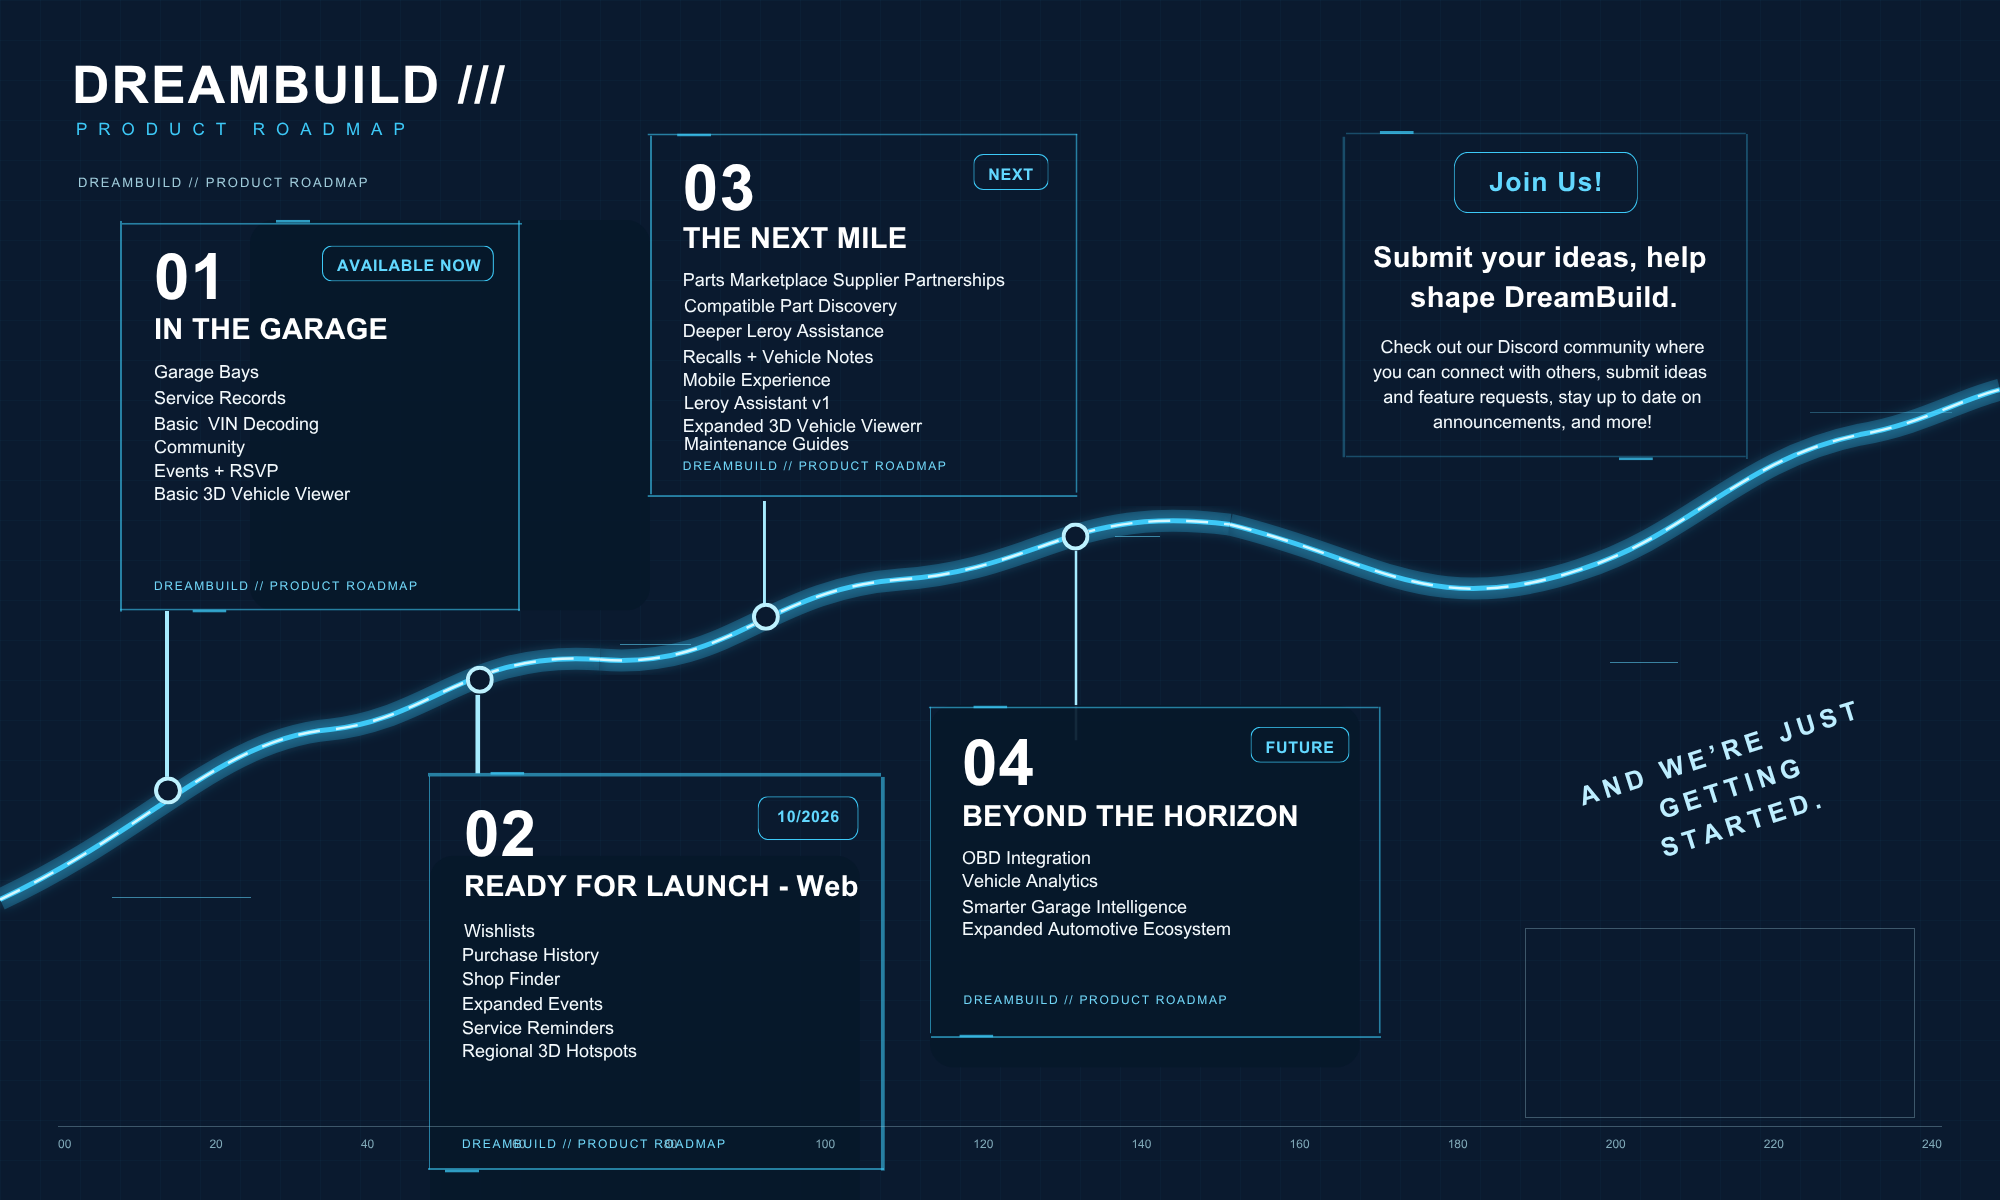
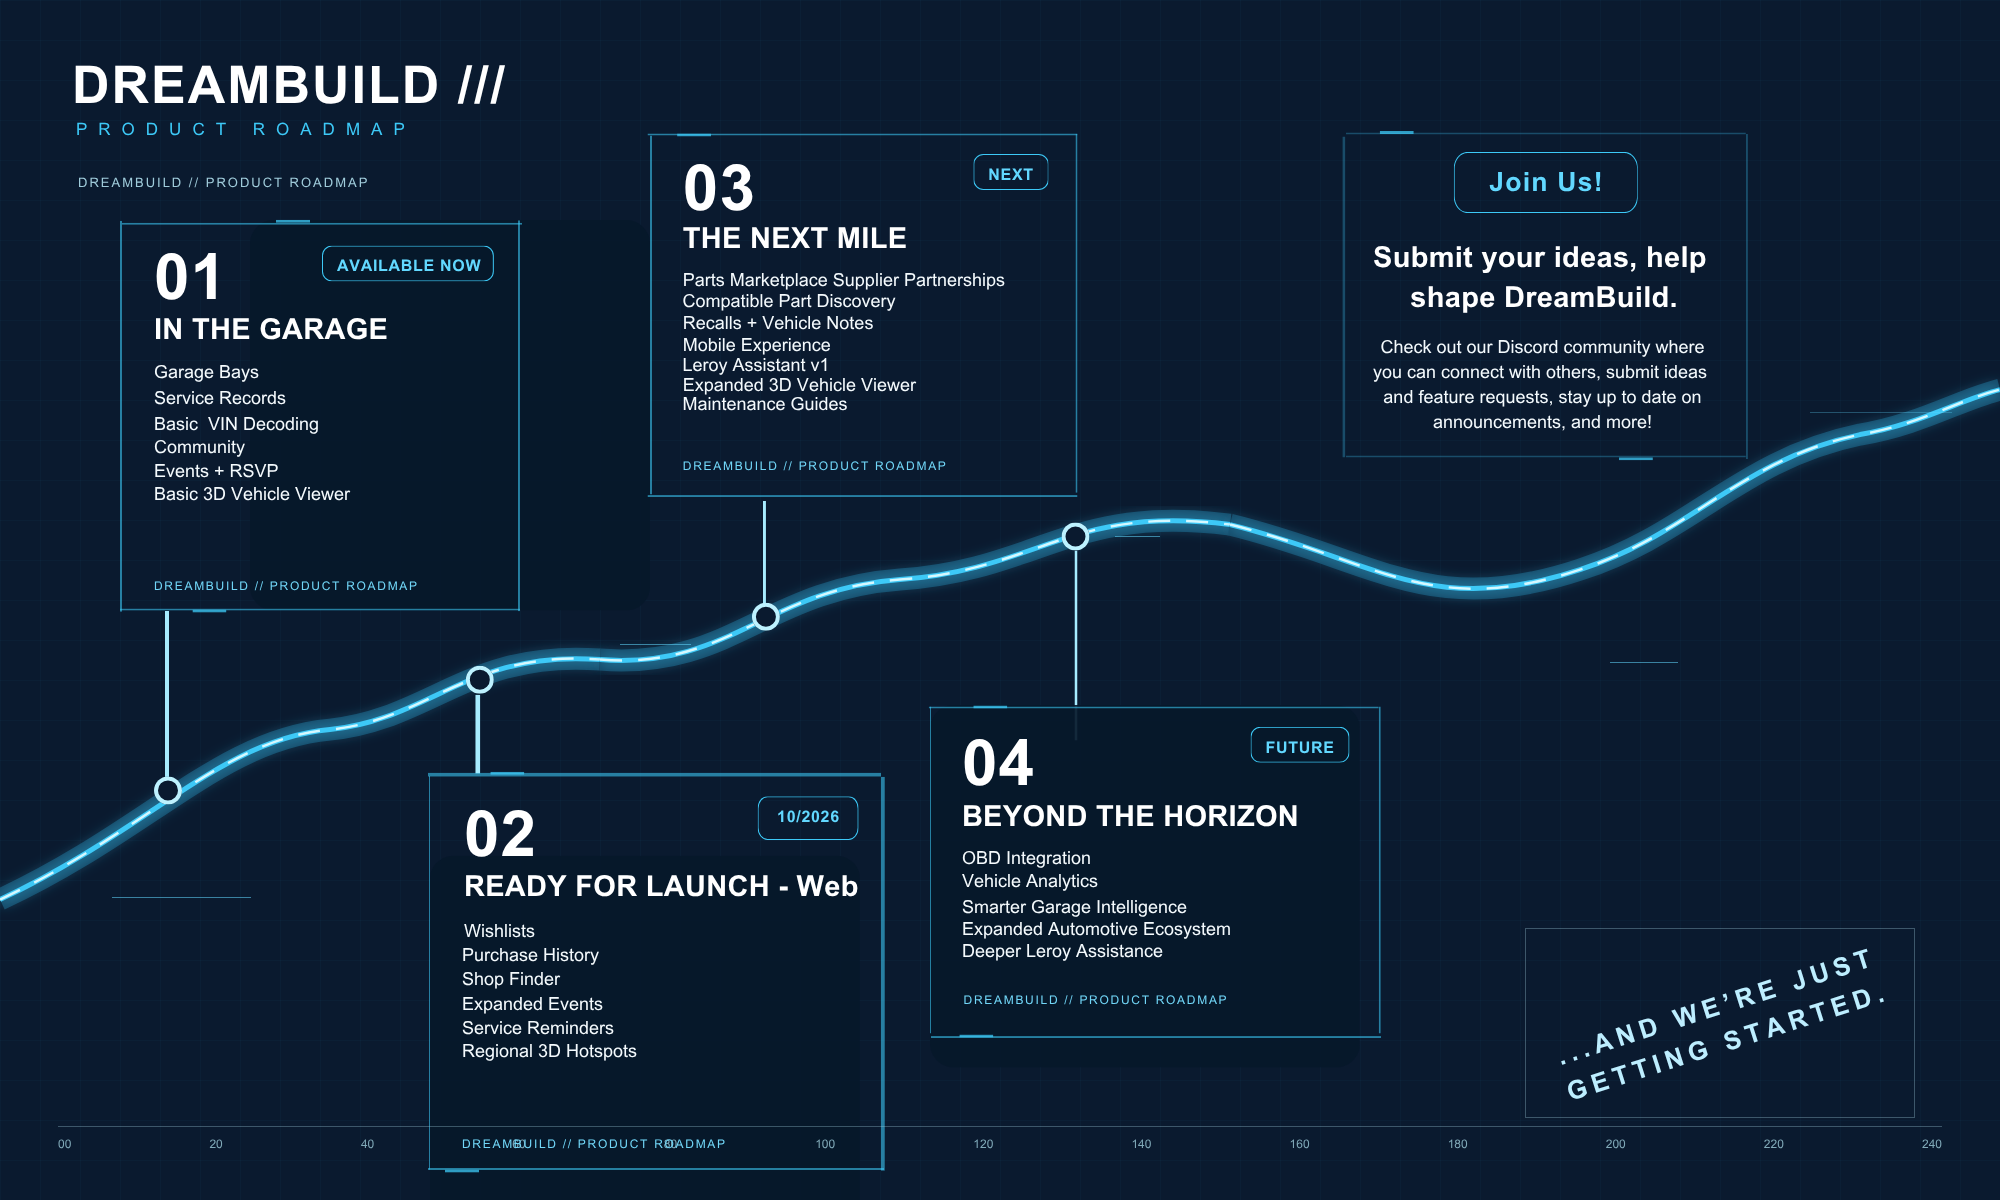
Update roadmap graphic and move Deeper Leroy Assistance to milestone 04
Swaps in the latest approved roadmap graphic and syncs its text
equivalent in roadmap-data.ts: "Deeper Leroy Assistance" moves from
milestone 03 (The Next Mile) to milestone 04 (Beyond the Horizon), and
fixes the "Expanded 3D Vehicle Viewerr" typo to match the new graphic.

Claude-Session: https://claude.ai/code/session_01AyBMqaZBUA7QZNfiJCV6wR

diff --git a/web/src/components/roadmap/roadmap-data.ts b/web/src/components/roadmap/roadmap-data.ts
@@ -49,11 +49,10 @@ export const ROADMAP_MILESTONES: RoadmapMilestone[] = [
     items: [
       "Parts Marketplace Supplier Partnerships",
       "Compatible Part Discovery",
-      "Deeper Leroy Assistance",
       "Recalls + Vehicle Notes",
       "Mobile Experience",
       "Leroy Assistant v1",
-      "Expanded 3D Vehicle Viewerr",
+      "Expanded 3D Vehicle Viewer",
       "Maintenance Guides",
     ],
   },
@@ -67,6 +66,7 @@ export const ROADMAP_MILESTONES: RoadmapMilestone[] = [
       "Vehicle Analytics",
       "Smarter Garage Intelligence",
       "Expanded Automotive Ecosystem",
+      "Deeper Leroy Assistance",
     ],
   },
 ];
